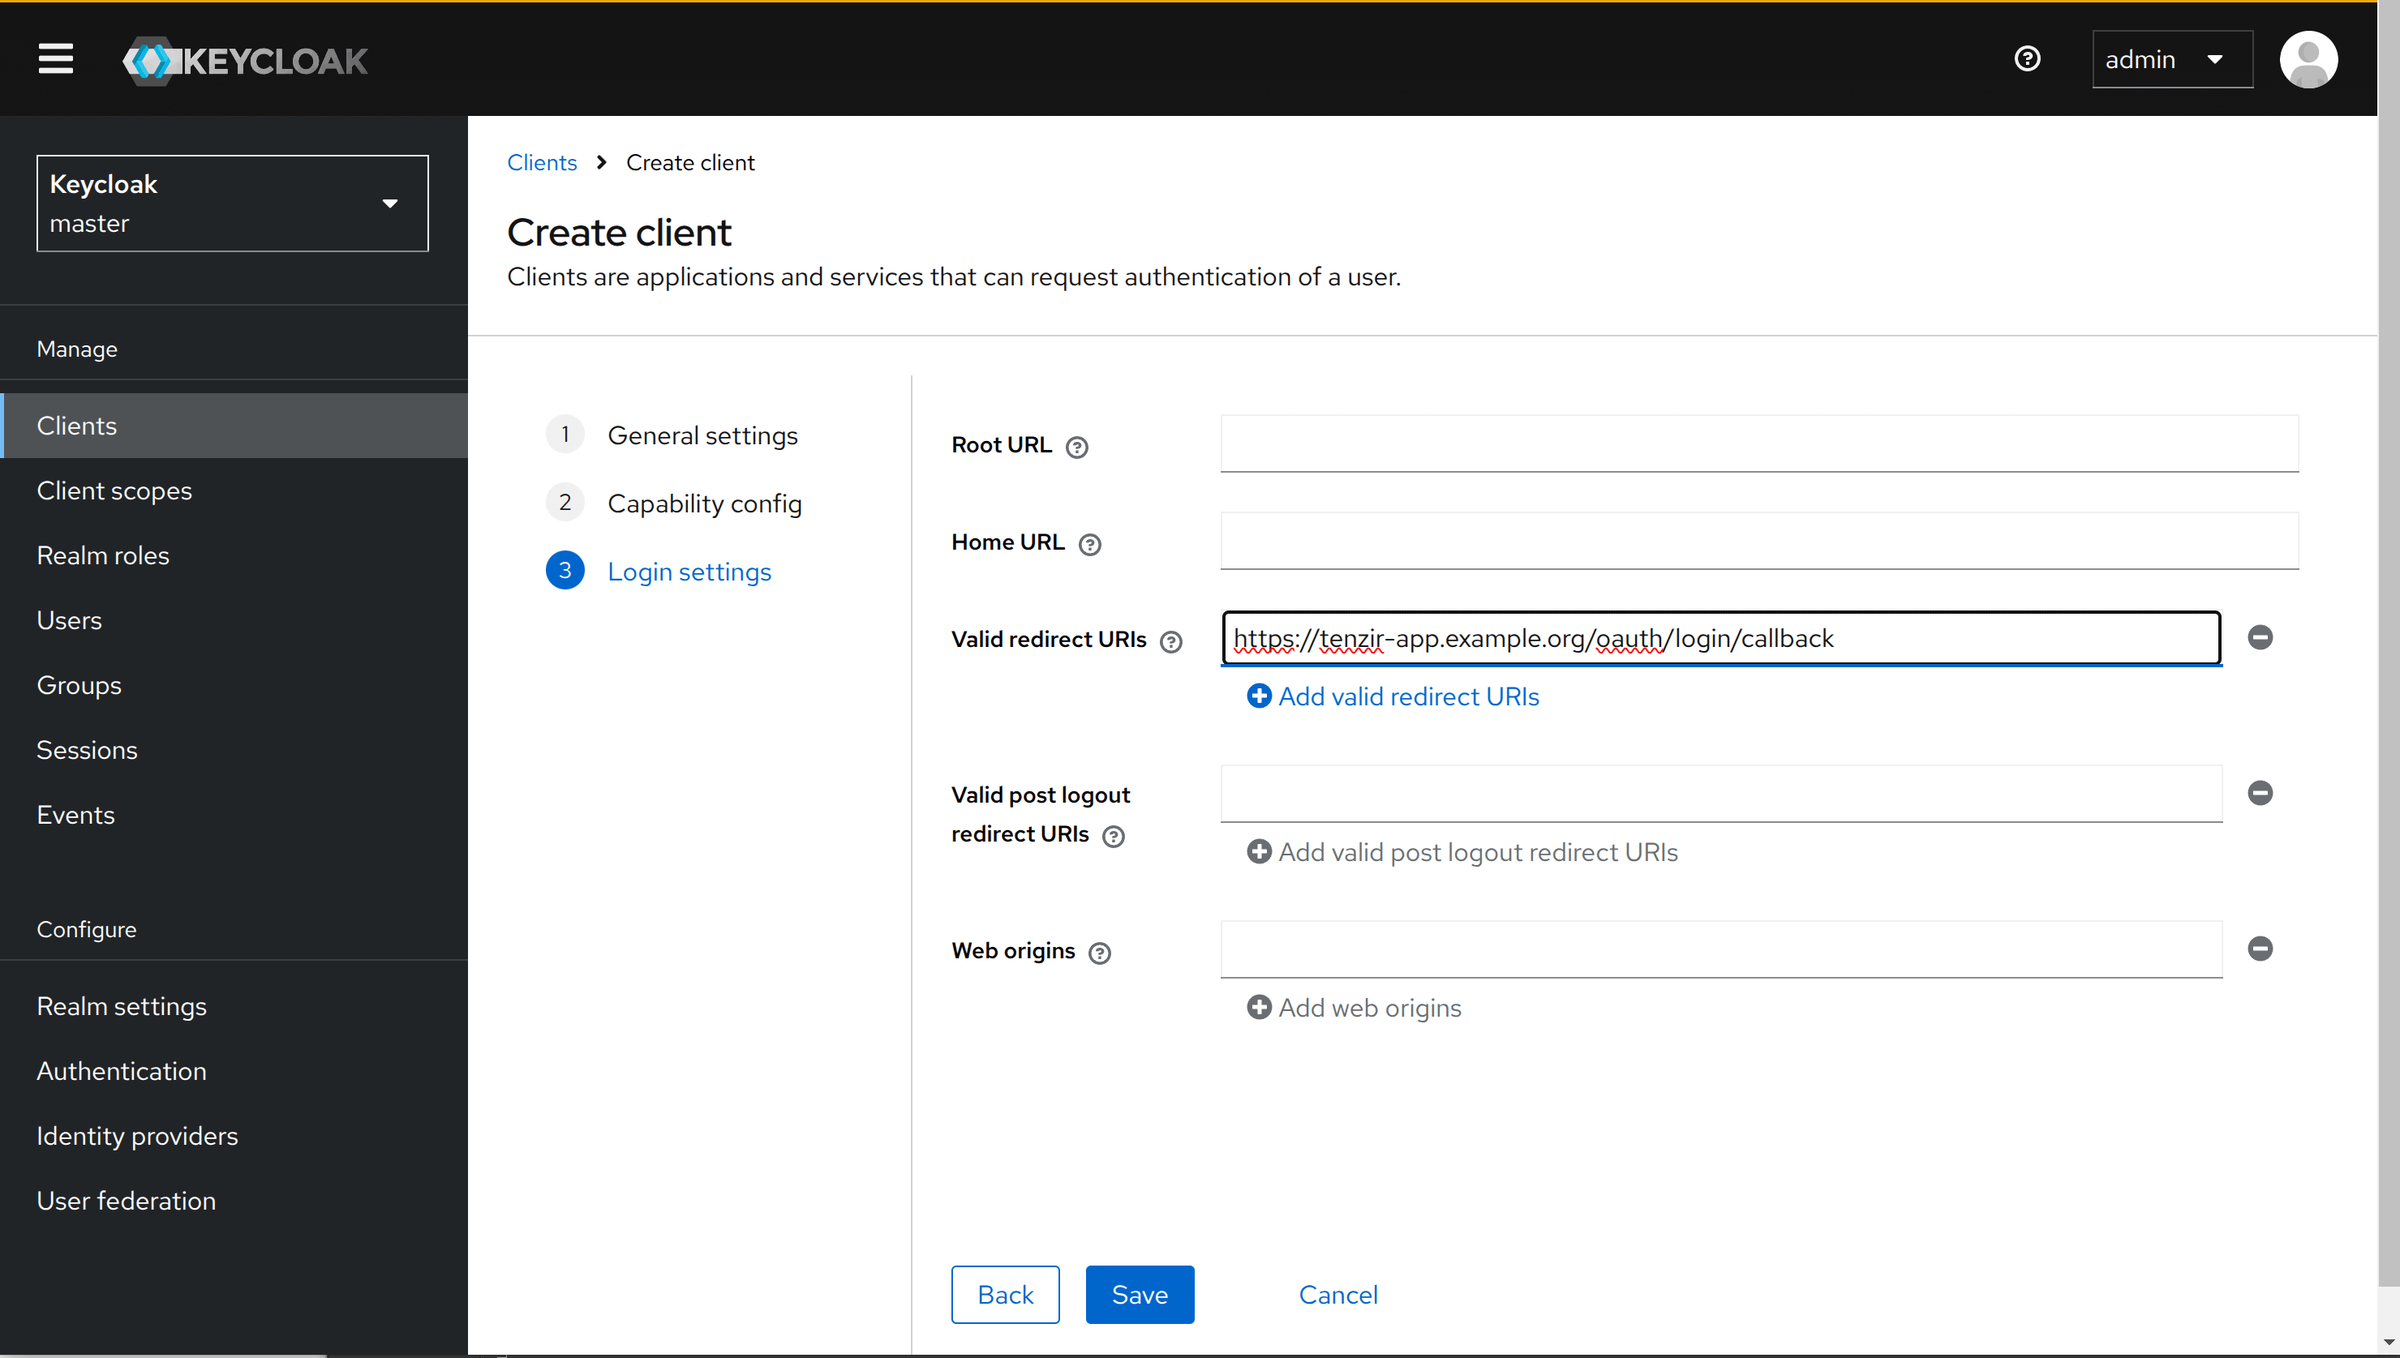
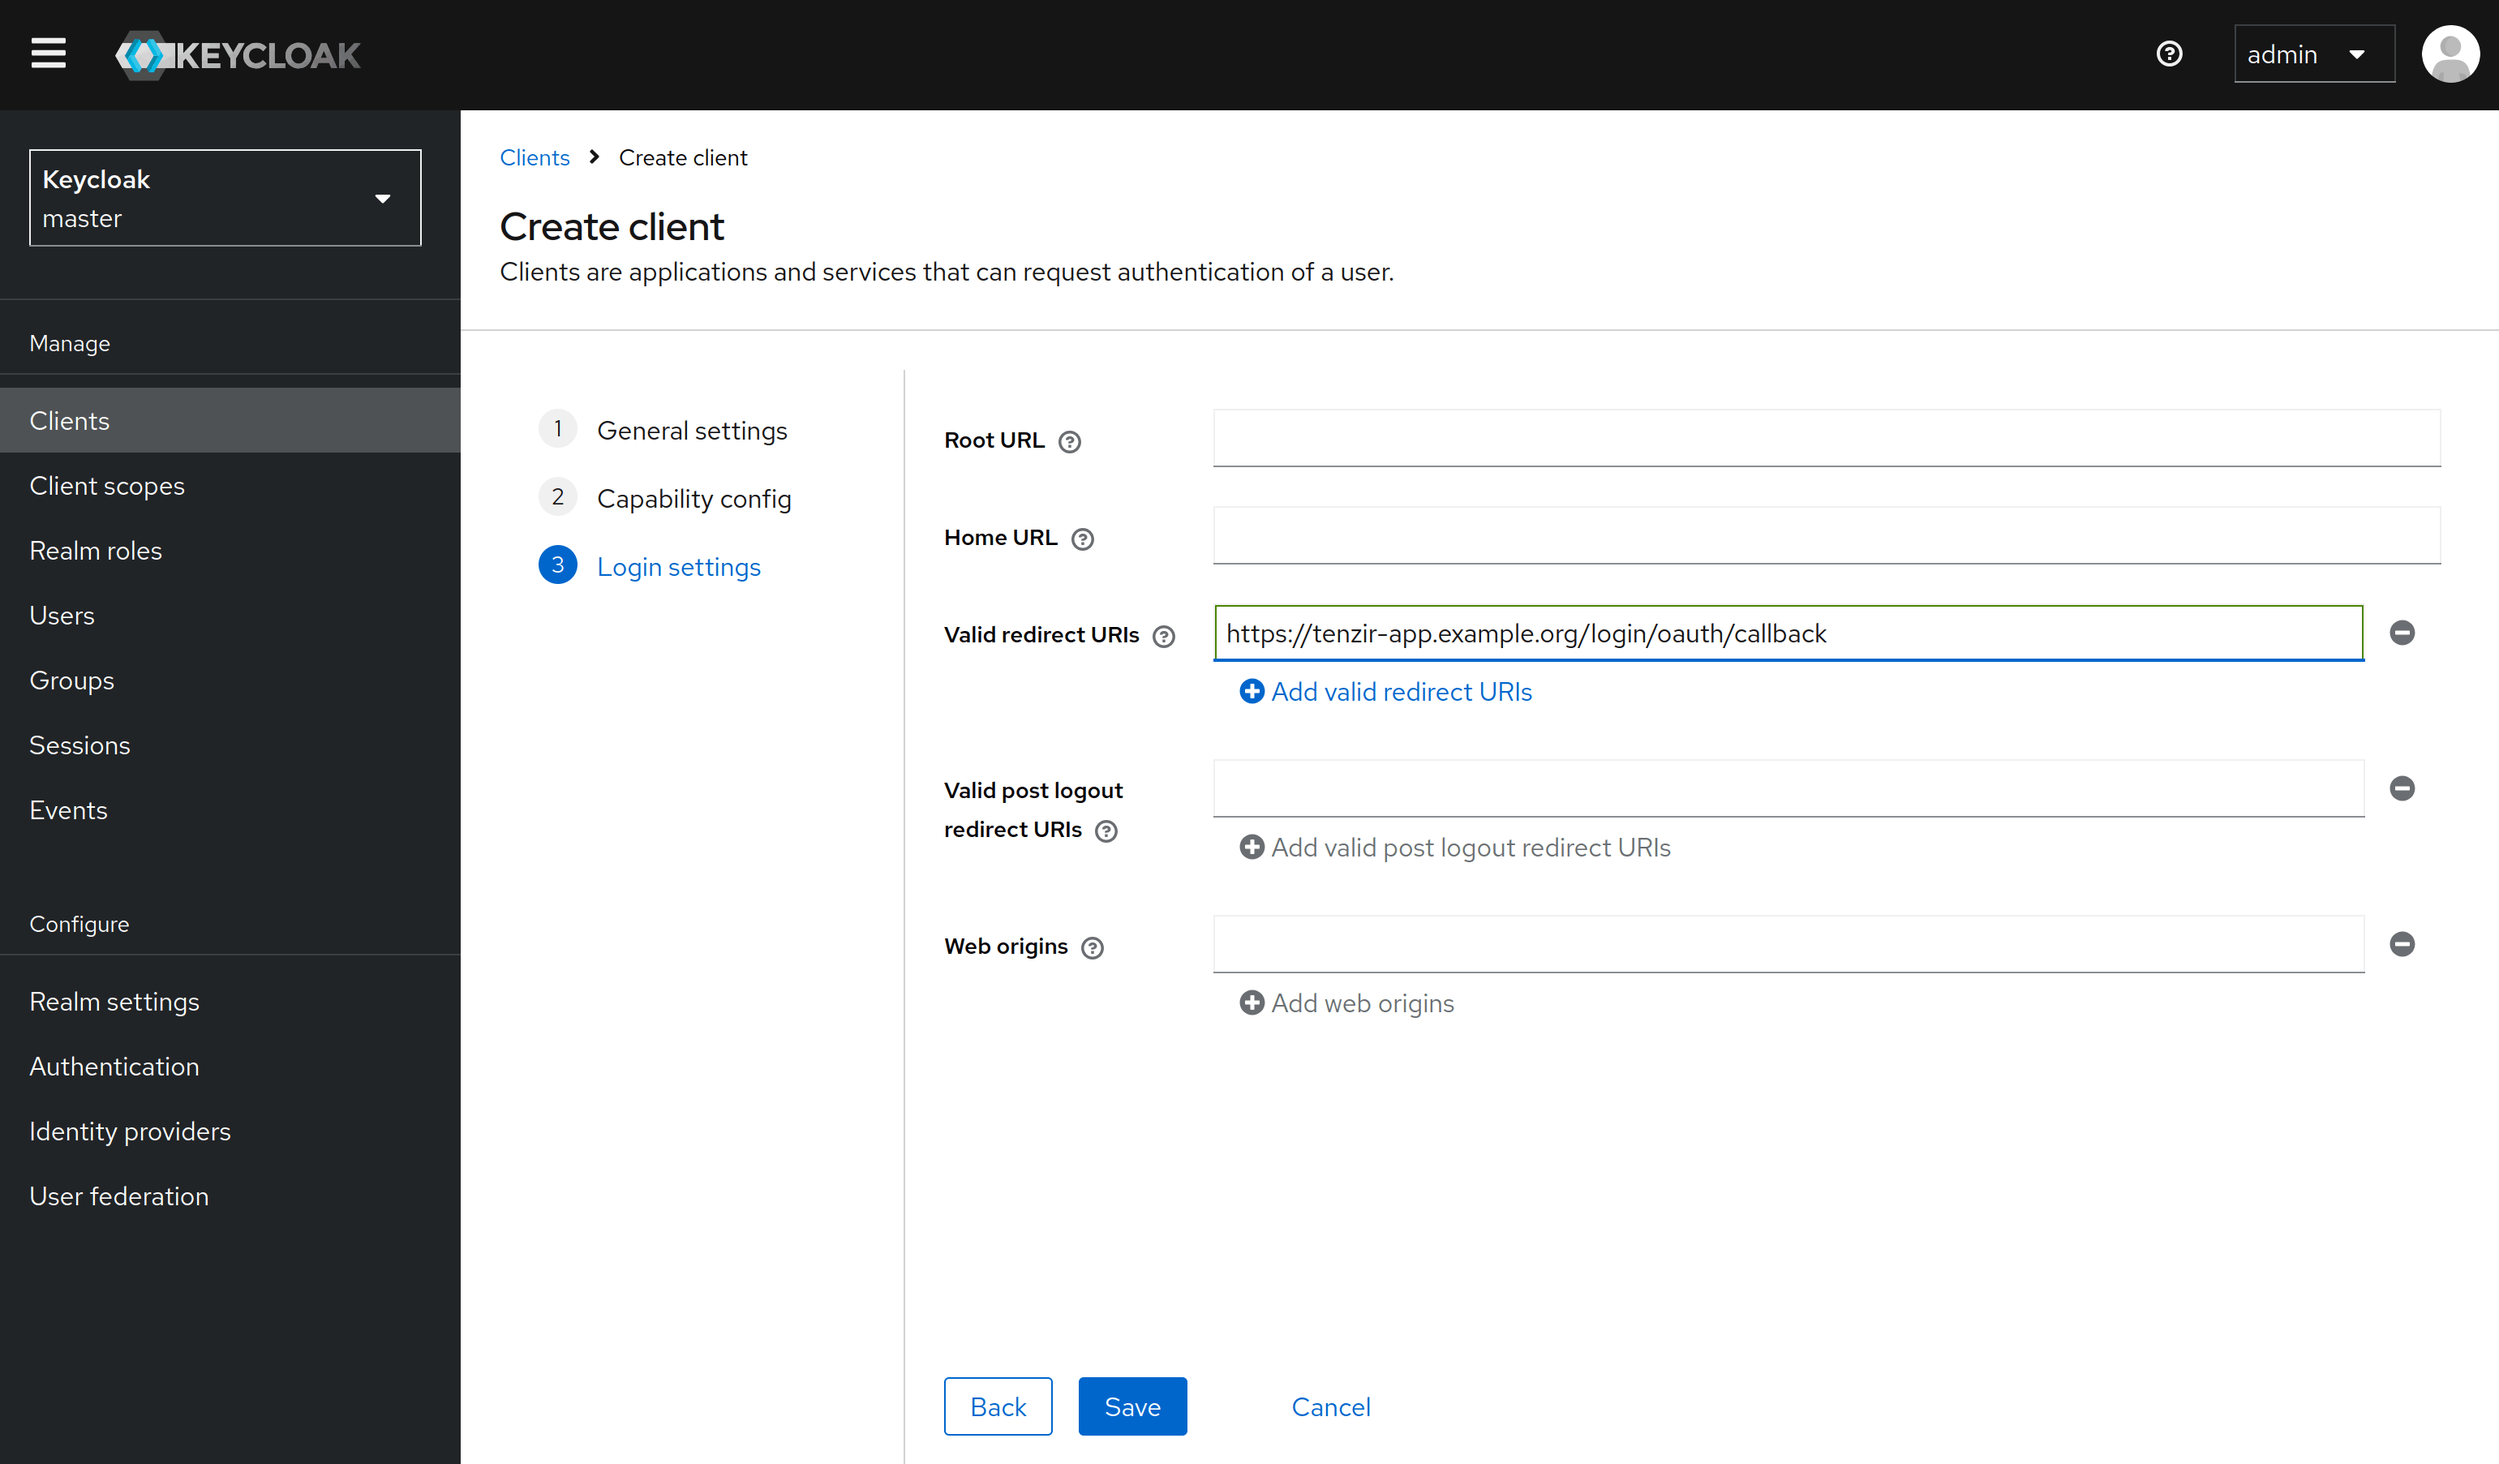
Update image with correct redirect url

diff --git a/examples/keycloak/README.md b/examples/keycloak/README.md
@@ -20,7 +20,8 @@ Navigate to the keycloak instance and log in as a user with admin permissions.
 If you use the bundled keycloak instance, the initial username is `admin`
 and password is `changeme`.
 
-Remember to change the default password after logging in for the first time.
+Remember to change the default password after logging in for the first time,
+and to set up 2-factor authentication for your admin user.
 
 ### Create a new `tenzir` realm (optional)
 
@@ -28,7 +29,7 @@ This step is not required. It can make sense if you already have
 an existing keycloak realm configured that you want to keep separate,
 or if you want to change the name of the default `master` realm.
 
-If you do, you'll need to update the TENZIR_PLATFORM_OIDC_ISSUER_URL
+If you do, you'll need to update the `TENZIR_PLATFORM_OIDC_ISSUER_URL`
 in the docker compose config to point to the new realm instead.
 
 ![Configuration 0](images/create_realm.png)
